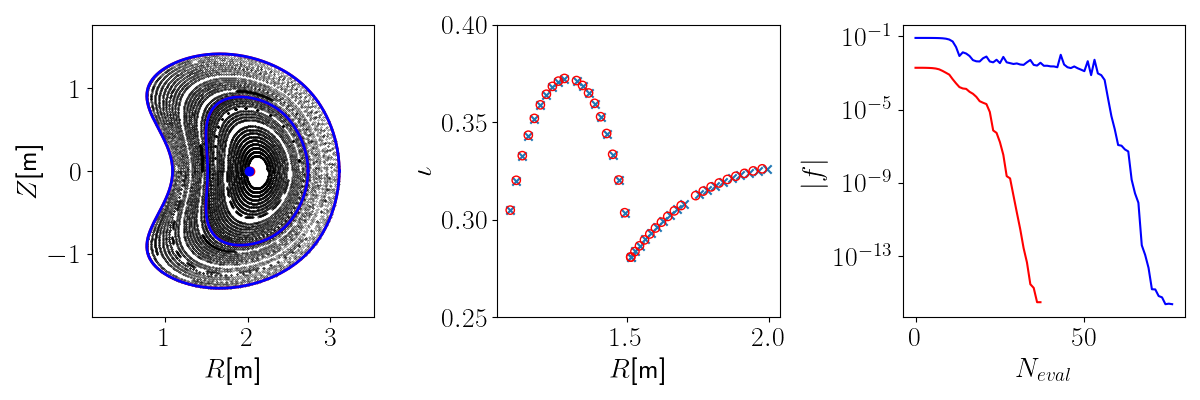
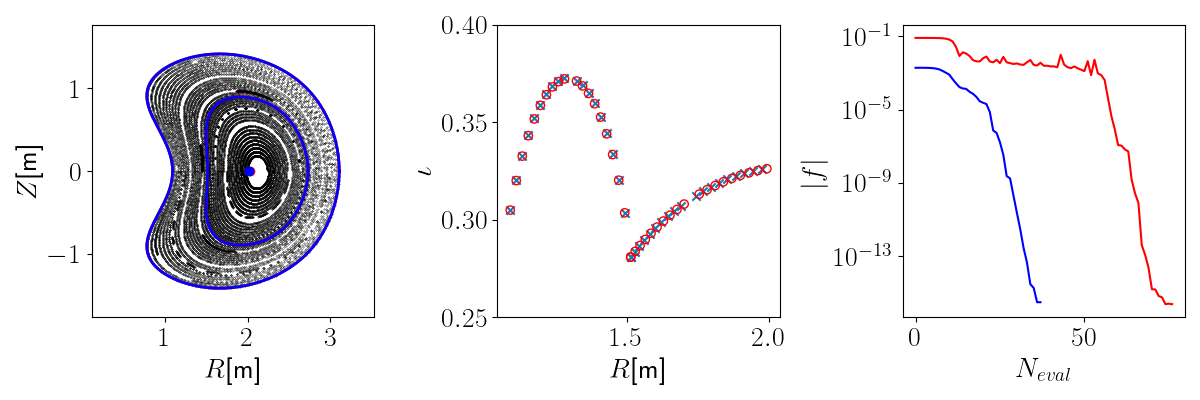
merge I forgot to do

diff --git a/scripts/HennebergRepresentation/plot_comparison.py b/scripts/HennebergRepresentation/plot_comparison.py
@@ -3,8 +3,13 @@ import matplotlib.pyplot as plt
 
 plt.rcParams['text.usetex'] = True
 
-bean = False
-torsion = True
+ii = 3
+
+
+bean = ii==1
+torsion = ii==2
+ellipse = ii==3
+w7x = ii==4
 
 ft = 20
 
@@ -24,16 +29,16 @@ if bean:
     ax[0].set_ylabel(r'$Z$[m]',fontsize=ft)
     ax[0].tick_params(axis='both', labelsize=ft)
     
-    dbs_lb0.plot_iota(ax=ax[1],marker='x')
-    dbs_lb1.plot_iota(ax=ax[1],marker='o',facecolor='none',edgecolor='r')
+    dbs_lb1.plot_iota(ax=ax[1],marker='x')
+    dbs_lb0.plot_iota(ax=ax[1],marker='o',facecolor='none',edgecolor='r')
     ax[1].set_ylim((0.25,0.4))
     ax[1].set_xlabel(r'$R$[m]',fontsize=ft)
     ax[1].set_ylabel(r'$\iota$',fontsize=ft+2)
     ax[1].tick_params(axis='both', labelsize=ft)
     
     
-    ax[2].plot(dbs_lb0.iterations['ForceErr'],c='b')
-    ax[2].plot(dbs_lb1.iterations['ForceErr'],c='r')
+    ax[2].plot(dbs_lb0.iterations['ForceErr'],c='r')
+    ax[2].plot(dbs_lb1.iterations['ForceErr'],c='b')
     ax[2].set_yscale('log')
     ax[2].set_xlabel(r'$N_{eval}$', fontsize=ft)
     ax[2].set_ylabel(r'$|f|$', fontsize=ft)
@@ -54,16 +59,74 @@ if torsion:
     ax[0].set_xlim((9.5,12.5))
     ax[0].tick_params(axis='both', labelsize=ft)
     
-    dbs_lb0.plot_iota(ax=ax[1],marker='x')
-    dbs_lb1.plot_iota(ax=ax[1],marker='o',facecolor='none',edgecolor='r')
+    dbs_lb1.plot_iota(ax=ax[1],marker='x')
+    dbs_lb0.plot_iota(ax=ax[1],marker='o',facecolor='none',edgecolor='r')
+    ax[1].set_ylim((3,5.5))
+    ax[1].set_xlabel(r'$R$[m]', fontsize=ft)
+    ax[1].set_ylabel(r'$\iota$',fontsize=ft+2)
+    ax[1].tick_params(axis='both', labelsize=ft)
+    
+    
+    ax[2].plot(dbs_lb1.iterations['ForceErr'],c='b')
+    ax[2].plot(dbs_lb0.iterations['ForceErr'],c='r')
+    ax[2].set_yscale('log')
+    ax[2].set_xlabel(r'$N_{eval}$', fontsize=ft)
+    ax[2].set_ylabel(r'$|f|$', fontsize=ft)
+    ax[2].tick_params(axis='both', labelsize=ft)
+
+if ellipse:
+    dbs_lb0 = py_spec.SPECout('RotatingEllipse_Lb0_Lf2.sp.h5')
+    dbs_lb1 = py_spec.SPECout('RotatingEllipse_Lb1_Lf2.sp.h5')
+    
+    fig,ax = plt.subplots(1,3,figsize=(12,4))
+    dbs_lb0.plot_poincare(ax=ax[0],prange='upper',facecolor='k')
+    dbs_lb1.plot_poincare(ax=ax[0],prange='lower',facecolor='k')
+    dbs_lb0.plot_kam_surface(ax=ax[0])
+    dbs_lb1.plot_kam_surface(ax=ax[0],c='b')
+    ax[0].set_xlabel(r'$R$[m]', fontsize=ft)
+    ax[0].set_ylabel(r'$Z$[m]', fontsize=ft)
+    ax[0].set_xlim((8.25,11.75))
+    ax[0].tick_params(axis='both', labelsize=ft)
+    
+    dbs_lb1.plot_iota(ax=ax[1],marker='x')
+    dbs_lb0.plot_iota(ax=ax[1],marker='o',facecolor='none',edgecolor='r')
+    #ax[1].set_ylim((3,5.5))
+    ax[1].set_xlabel(r'$R$[m]', fontsize=ft)
+    ax[1].set_ylabel(r'$\iota$',fontsize=ft+2)
+    ax[1].tick_params(axis='both', labelsize=ft)
+    
+    
+    ax[2].plot(dbs_lb1.iterations['ForceErr'],c='b')
+    ax[2].plot(dbs_lb0.iterations['ForceErr'],c='r')
+    ax[2].set_yscale('log')
+    ax[2].set_xlabel(r'$N_{eval}$', fontsize=ft)
+    ax[2].set_ylabel(r'$|f|$', fontsize=ft)
+    ax[2].tick_params(axis='both', labelsize=ft)
+
+if w7x:
+    dbs_lb0 = py_spec.SPECout('W7X_Nvol2_Lb0_Lf2.sp.h5')
+    dbs_lb1 = py_spec.SPECout('W7X_Nvol2_Lb1_Lf2.sp.h5')
+    
+    fig,ax = plt.subplots(1,3,figsize=(12,4))
+    dbs_lb0.plot_poincare(ax=ax[0],prange='upper',facecolor='k')
+    dbs_lb1.plot_poincare(ax=ax[0],prange='lower',facecolor='k')
+    dbs_lb0.plot_kam_surface(ax=ax[0])
+    dbs_lb1.plot_kam_surface(ax=ax[0],c='b')
+    ax[0].set_xlabel(r'$R$[m]', fontsize=ft)
+    ax[0].set_ylabel(r'$Z$[m]', fontsize=ft)
+    ax[0].set_xlim((5.5,6.3))
+    ax[0].tick_params(axis='both', labelsize=ft)
+    
+    dbs_lb1.plot_iota(ax=ax[1],marker='x')
+    dbs_lb0.plot_iota(ax=ax[1],marker='o',facecolor='none',edgecolor='r')
     ax[1].set_ylim((3,5.5))
     ax[1].set_xlabel(r'$R$[m]', fontsize=ft)
     ax[1].set_ylabel(r'$\iota$',fontsize=ft+2)
     ax[2].tick_params(axis='both', labelsize=ft)
     
     
-    ax[2].plot(dbs_lb0.iterations['ForceErr'],c='b')
-    ax[2].plot(dbs_lb1.iterations['ForceErr'],c='r')
+    ax[2].plot(dbs_lb1.iterations['ForceErr'],c='b')
+    ax[2].plot(dbs_lb0.iterations['ForceErr'],c='r')
     ax[2].set_yscale('log')
     ax[2].set_xlabel(r'$N_{eval}$', fontsize=ft)
     ax[2].set_ylabel(r'$|f|$', fontsize=ft)

diff --git a/tail/appendix.tex b/tail/appendix.tex
@@ -376,9 +376,9 @@ where we dropped the volume index, $\mathbf{u}=\{s,\theta,\phi\}$, and $\epsilon
 	\end{cases}
 \end{equation}
 The left hand side is obtained by taking twice the curl of the vector potential,
-\begin{align}
-	\left[\nabla\times(\nabla\times\mathbf{A})\right]^q &= \frac{\epsilon^{plq}}{\sqrt{g}}\frac{\partial}{\partial u^p}\left[g_{lk}\frac{\epsilon^{ijk}}{\sqrt{g}}\frac{\partial A_j}{\partial u^i}\right].
-\end{align}
+\begin{equation}
+	\left[\nabla\times(\nabla\times\mathbf{A})\right]^q = \frac{\epsilon^{plq}}{\sqrt{g}}\frac{\partial}{\partial u^p}\left[g_{lk}\frac{\epsilon^{ijk}}{\sqrt{g}}\frac{\partial A_j}{\partial u^i}\right].
+\end{equation}
 Gathering all terms, we obtain
 \begin{equation}
 	\epsilon^{plq}\epsilon^{ijk}\left\{\frac{\partial}{\partial u^p}\left(\frac{g_{lk}}{\sqrt{g}}\right)\frac{\partial}{\partial u^i}+\frac{g_{lk}}{\sqrt{g}}\frac{\partial^2}{\partial u^i\partial u^p} - \frac{\mu}{\sqrt{g}}\frac{\partial}{\partial u^i} \right\}A_j=M^{qj}=0
